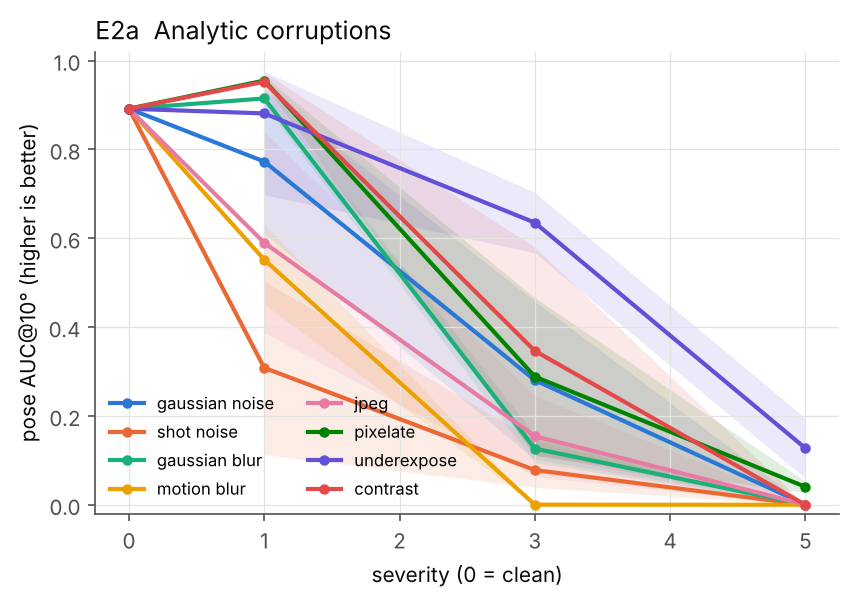
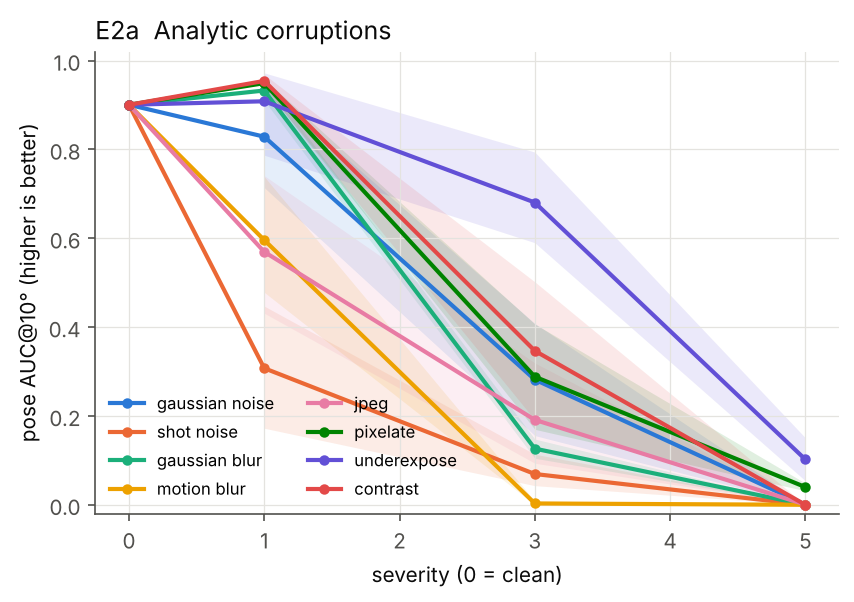
Update results
Claude-Session: https://claude.ai/code/session_01DwFUuxyVwkhujN2CBgQS9g

diff --git a/results/summary.md b/results/summary.md
@@ -5,7 +5,7 @@ Metric: pose AUC@10° over all input image pairs (unregistered = failure) and re
 
 ## Clean baseline
 
-33 runs, AUC@10 = 0.892 (std 0.224), registration 0.935.
+37 runs, AUC@10 = 0.900 (std 0.212), registration 0.942.
 
 
 ## E2a  Analytic corruptions
@@ -14,30 +14,30 @@ Metric: pose AUC@10° over all input image pairs (unregistered = failure) and re
 
 | perturb | severity | n | auc@10 | reg_frac |
 |---|---|---|---|---|
-| contrast | 1 | 4 | 0.952 [0.93, 0.97] | 1.000 [1.00, 1.00] |
-| contrast | 3 | 4 | 0.347 [0.11, 0.58] | 0.570 [0.35, 0.79] |
-| contrast | 5 | 4 | 0.000 [0.00, 0.00] | 0.000 [0.00, 0.00] |
-| gaussian_blur | 1 | 4 | 0.915 [0.90, 0.93] | 1.000 [1.00, 1.00] |
-| gaussian_blur | 3 | 4 | 0.127 [0.09, 0.16] | 0.372 [0.33, 0.42] |
-| gaussian_blur | 5 | 4 | 0.000 [0.00, 0.00] | 0.000 [0.00, 0.00] |
-| gaussian_noise | 1 | 4 | 0.773 [0.61, 0.93] | 1.000 [1.00, 1.00] |
-| gaussian_noise | 3 | 4 | 0.281 [0.10, 0.46] | 0.544 [0.34, 0.75] |
-| gaussian_noise | 5 | 4 | 0.000 [0.00, 0.00] | 0.045 [0.04, 0.05] |
-| jpeg | 1 | 4 | 0.590 [0.39, 0.84] | 0.994 [0.98, 1.00] |
-| jpeg | 3 | 4 | 0.154 [0.06, 0.25] | 0.448 [0.28, 0.62] |
-| jpeg | 5 | 4 | 0.000 [0.00, 0.00] | 0.045 [0.04, 0.05] |
-| motion_blur | 1 | 4 | 0.552 [0.45, 0.63] | 0.842 [0.71, 0.97] |
-| motion_blur | 3 | 4 | 0.000 [0.00, 0.00] | 0.050 [0.04, 0.06] |
-| motion_blur | 5 | 4 | 0.000 [0.00, 0.00] | 0.000 [0.00, 0.00] |
-| pixelate | 1 | 4 | 0.955 [0.95, 0.96] | 1.000 [1.00, 1.00] |
-| pixelate | 3 | 4 | 0.289 [0.11, 0.47] | 0.535 [0.35, 0.72] |
-| pixelate | 5 | 4 | 0.040 [0.03, 0.05] | 0.215 [0.18, 0.25] |
-| shot_noise | 1 | 4 | 0.308 [0.11, 0.50] | 0.590 [0.35, 0.83] |
-| shot_noise | 3 | 4 | 0.078 [0.04, 0.14] | 0.285 [0.21, 0.39] |
-| shot_noise | 5 | 4 | 0.000 [0.00, 0.00] | 0.020 [0.00, 0.04] |
-| underexpose | 1 | 4 | 0.881 [0.70, 0.98] | 1.000 [1.00, 1.00] |
-| underexpose | 3 | 4 | 0.635 [0.57, 0.70] | 0.900 [0.80, 1.00] |
-| underexpose | 5 | 4 | 0.127 [0.06, 0.20] | 0.361 [0.26, 0.46] |
+| contrast | 1 | 6 | 0.954 [0.94, 0.97] | 1.000 [1.00, 1.00] |
+| contrast | 3 | 6 | 0.347 [0.19, 0.50] | 0.568 [0.42, 0.72] |
+| contrast | 5 | 6 | 0.000 [0.00, 0.00] | 0.000 [0.00, 0.00] |
+| gaussian_blur | 1 | 6 | 0.933 [0.91, 0.96] | 1.000 [1.00, 1.00] |
+| gaussian_blur | 3 | 6 | 0.126 [0.10, 0.15] | 0.372 [0.34, 0.40] |
+| gaussian_blur | 5 | 6 | 0.000 [0.00, 0.00] | 0.000 [0.00, 0.00] |
+| gaussian_noise | 1 | 6 | 0.829 [0.71, 0.94] | 1.000 [1.00, 1.00] |
+| gaussian_noise | 3 | 6 | 0.282 [0.16, 0.41] | 0.537 [0.40, 0.68] |
+| gaussian_noise | 5 | 6 | 0.000 [0.00, 0.00] | 0.045 [0.04, 0.05] |
+| jpeg | 1 | 6 | 0.569 [0.43, 0.74] | 0.993 [0.98, 1.00] |
+| jpeg | 3 | 6 | 0.191 [0.09, 0.32] | 0.484 [0.33, 0.66] |
+| jpeg | 5 | 6 | 0.000 [0.00, 0.00] | 0.045 [0.04, 0.05] |
+| motion_blur | 1 | 6 | 0.596 [0.48, 0.74] | 0.849 [0.74, 0.95] |
+| motion_blur | 3 | 6 | 0.003 [0.00, 0.01] | 0.065 [0.04, 0.10] |
+| motion_blur | 5 | 6 | 0.000 [0.00, 0.00] | 0.000 [0.00, 0.00] |
+| pixelate | 1 | 6 | 0.949 [0.94, 0.96] | 1.000 [1.00, 1.00] |
+| pixelate | 3 | 6 | 0.288 [0.17, 0.41] | 0.535 [0.41, 0.66] |
+| pixelate | 5 | 6 | 0.040 [0.03, 0.05] | 0.215 [0.19, 0.24] |
+| shot_noise | 1 | 6 | 0.307 [0.17, 0.45] | 0.602 [0.41, 0.80] |
+| shot_noise | 3 | 6 | 0.069 [0.04, 0.11] | 0.275 [0.23, 0.35] |
+| shot_noise | 5 | 6 | 0.000 [0.00, 0.00] | 0.020 [0.01, 0.03] |
+| underexpose | 1 | 6 | 0.908 [0.79, 0.97] | 1.000 [1.00, 1.00] |
+| underexpose | 3 | 6 | 0.680 [0.59, 0.79] | 0.900 [0.83, 0.97] |
+| underexpose | 5 | 6 | 0.102 [0.05, 0.15] | 0.323 [0.25, 0.39] |
 
 
 ## E2b  Generative corruptions
@@ -46,9 +46,9 @@ Metric: pose AUC@10° over all input image pairs (unregistered = failure) and re
 
 | perturb | severity | n | auc@10 | reg_frac |
 |---|---|---|---|---|
-| blackout | 1 | 4 | 0.970 [0.96, 0.98] | 1.000 [1.00, 1.00] |
-| blackout | 3 | 4 | 0.477 [0.39, 0.56] | 0.709 [0.64, 0.78] |
-| blackout | 5 | 4 | 0.241 [0.09, 0.39] | 0.487 [0.32, 0.65] |
+| blackout | 1 | 6 | 0.969 [0.96, 0.97] | 1.000 [1.00, 1.00] |
+| blackout | 3 | 6 | 0.482 [0.42, 0.54] | 0.711 [0.66, 0.76] |
+| blackout | 5 | 6 | 0.222 [0.12, 0.35] | 0.468 [0.35, 0.60] |
 
 
 ## E1s  Synthetic weather incl. desert
@@ -57,27 +57,27 @@ Metric: pose AUC@10° over all input image pairs (unregistered = failure) and re
 
 | perturb | severity | n | auc@10 | reg_frac |
 |---|---|---|---|---|
-| fog | 1 | 4 | 0.966 [0.95, 0.98] | 1.000 [1.00, 1.00] |
-| fog | 3 | 4 | 0.699 [0.57, 0.87] | 0.890 [0.78, 1.00] |
-| fog | 5 | 4 | 0.201 [0.07, 0.33] | 0.444 [0.29, 0.60] |
+| fog | 1 | 5 | 0.966 [0.95, 0.98] | 1.000 [1.00, 1.00] |
+| fog | 3 | 5 | 0.672 [0.57, 0.83] | 0.868 [0.78, 0.96] |
+| fog | 5 | 5 | 0.228 [0.12, 0.33] | 0.479 [0.35, 0.61] |
 | harsh_sun | 1 | 4 | 0.977 [0.97, 0.98] | 1.000 [1.00, 1.00] |
 | harsh_sun | 3 | 4 | 0.344 [0.21, 0.48] | 0.608 [0.47, 0.74] |
 | harsh_sun | 5 | 4 | 0.163 [0.00, 0.32] | 0.365 [0.10, 0.63] |
-| heat_shimmer | 1 | 4 | 0.972 [0.97, 0.98] | 1.000 [1.00, 1.00] |
+| heat_shimmer | 1 | 5 | 0.970 [0.97, 0.97] | 1.000 [1.00, 1.00] |
 | heat_shimmer | 3 | 4 | 0.962 [0.95, 0.97] | 1.000 [1.00, 1.00] |
 | heat_shimmer | 5 | 4 | 0.748 [0.61, 0.89] | 0.939 [0.83, 1.00] |
-| night | 1 | 4 | 0.877 [0.70, 0.98] | 1.000 [1.00, 1.00] |
-| night | 3 | 4 | 0.357 [0.18, 0.53] | 0.605 [0.45, 0.76] |
-| night | 5 | 4 | 0.005 [0.00, 0.02] | 0.076 [0.04, 0.14] |
-| rain | 1 | 4 | 0.966 [0.95, 0.98] | 1.000 [1.00, 1.00] |
-| rain | 3 | 4 | 0.414 [0.26, 0.57] | 0.764 [0.59, 0.94] |
-| rain | 5 | 4 | 0.186 [0.06, 0.31] | 0.426 [0.26, 0.59] |
-| sandstorm | 1 | 4 | 0.965 [0.95, 0.98] | 1.000 [1.00, 1.00] |
-| sandstorm | 3 | 4 | 0.754 [0.56, 0.95] | 0.890 [0.78, 1.00] |
-| sandstorm | 5 | 4 | 0.197 [0.07, 0.33] | 0.438 [0.28, 0.60] |
-| snow | 1 | 4 | 0.509 [0.34, 0.62] | 0.740 [0.61, 0.83] |
-| snow | 3 | 4 | 0.186 [0.06, 0.31] | 0.433 [0.28, 0.59] |
-| snow | 5 | 4 | 0.000 [0.00, 0.00] | 0.010 [0.00, 0.03] |
+| night | 1 | 5 | 0.822 [0.68, 0.97] | 1.000 [1.00, 1.00] |
+| night | 3 | 5 | 0.398 [0.23, 0.54] | 0.640 [0.48, 0.77] |
+| night | 5 | 5 | 0.006 [0.00, 0.01] | 0.081 [0.04, 0.13] |
+| rain | 1 | 5 | 0.895 [0.75, 0.97] | 1.000 [1.00, 1.00] |
+| rain | 3 | 5 | 0.444 [0.32, 0.57] | 0.767 [0.63, 0.91] |
+| rain | 5 | 5 | 0.184 [0.08, 0.29] | 0.429 [0.30, 0.56] |
+| sandstorm | 1 | 5 | 0.965 [0.96, 0.97] | 1.000 [1.00, 1.00] |
+| sandstorm | 3 | 5 | 0.716 [0.56, 0.87] | 0.868 [0.78, 0.96] |
+| sandstorm | 5 | 5 | 0.225 [0.12, 0.33] | 0.470 [0.34, 0.60] |
+| snow | 1 | 5 | 0.521 [0.38, 0.61] | 0.748 [0.64, 0.82] |
+| snow | 3 | 5 | 0.247 [0.10, 0.39] | 0.490 [0.32, 0.66] |
+| snow | 5 | 5 | 0.000 [0.00, 0.00] | 0.016 [0.00, 0.03] |
 
 
 ## E3  Super-resolution
@@ -121,19 +121,19 @@ Metric: pose AUC@10° over all input image pairs (unregistered = failure) and re
 | clean | 1.000 | 6 | 0.921 [0.82, 0.98] | 0.977 [0.93, 1.00] |
 | crowd | 0.100 | 5 | 0.732 [0.55, 0.91] | 0.890 [0.77, 1.00] |
 | crowd | 0.250 | 5 | 0.609 [0.49, 0.76] | 0.935 [0.81, 1.00] |
-| crowd | 0.500 | 4 | 0.300 [0.16, 0.44] | 0.870 [0.73, 0.99] |
-| crowd | 0.750 | 4 | 0.133 [0.06, 0.21] | 0.958 [0.90, 0.99] |
-| crowd | 1.000 | 4 | 0.026 [0.01, 0.04] | 0.994 [0.98, 1.00] |
+| crowd | 0.500 | 5 | 0.260 [0.12, 0.40] | 0.831 [0.70, 0.96] |
+| crowd | 0.750 | 5 | 0.119 [0.06, 0.18] | 0.941 [0.89, 0.99] |
+| crowd | 1.000 | 5 | 0.027 [0.01, 0.04] | 0.995 [0.98, 1.00] |
 | motion_blur | 0.100 | 6 | 0.599 [0.43, 0.73] | 0.829 [0.75, 0.90] |
 | motion_blur | 0.250 | 6 | 0.285 [0.13, 0.44] | 0.508 [0.34, 0.67] |
 | motion_blur | 0.500 | 6 | 0.028 [0.01, 0.06] | 0.162 [0.10, 0.23] |
 | motion_blur | 0.750 | 6 | 0.003 [0.00, 0.01] | 0.072 [0.06, 0.09] |
 | motion_blur | 1.000 | 6 | 0.000 [0.00, 0.00] | 0.008 [0.00, 0.03] |
-| night | 0.100 | 4 | 0.886 [0.76, 0.96] | 1.000 [1.00, 1.00] |
-| night | 0.250 | 4 | 0.702 [0.58, 0.87] | 0.889 [0.78, 1.00] |
-| night | 0.500 | 4 | 0.301 [0.16, 0.48] | 0.552 [0.41, 0.71] |
-| night | 0.750 | 4 | 0.188 [0.11, 0.29] | 0.440 [0.35, 0.55] |
-| night | 1.000 | 4 | 0.099 [0.06, 0.16] | 0.321 [0.25, 0.40] |
+| night | 0.100 | 5 | 0.771 [0.52, 0.95] | 0.940 [0.82, 1.00] |
+| night | 0.250 | 5 | 0.618 [0.42, 0.81] | 0.846 [0.74, 0.96] |
+| night | 0.500 | 5 | 0.263 [0.13, 0.42] | 0.512 [0.38, 0.65] |
+| night | 0.750 | 5 | 0.173 [0.11, 0.27] | 0.422 [0.35, 0.53] |
+| night | 1.000 | 5 | 0.098 [0.06, 0.15] | 0.322 [0.26, 0.39] |
 
 
 ## E6  Methods
